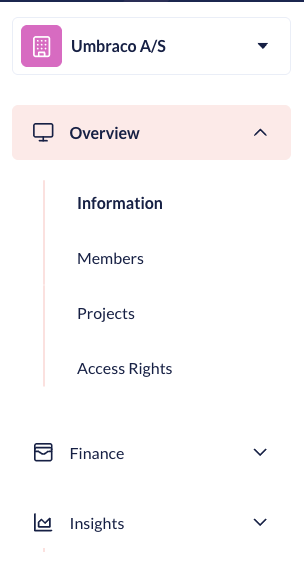
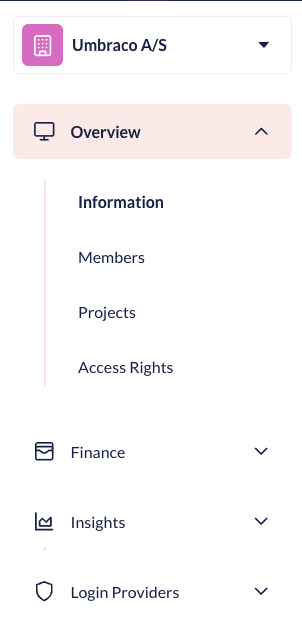
update images in Organization section

diff --git a/umbraco-cloud/begin-your-cloud-journey/the-cloud-portal/organizations.md b/umbraco-cloud/begin-your-cloud-journey/the-cloud-portal/organizations.md
@@ -121,12 +121,15 @@ This is a Beta feature and currently only open to a few early testers. If you wa
 The Sustainability Dashboard is designed to help users monitor and improve the environmental impact of their websites on Umbraco Cloud. For more information, see the [Sustainability Dashboard](../../optimize-and-maintain-your-site/monitor-and-troubleshoot/sustainability-dashboard.md) article.
 
 ## Login Providers
+<figure><img src="../../.gitbook/assets/org-menu-login-providers.png" alt="Login Providers section"><figcaption><p>Insights section</p></figcaption></figure>
 
 This section will allow you to configure access to the Umbraco Cloud Portal and Projects for your Organizations via the Login Provider(s) you use.
 
+To start setting up a Login Provider for your Organization, see the [Login Providers article](login-providers/README.md).
+
 ### External Login Providers
 
-This section will allow you to configure access to the Umbraco Cloud Portal for your Organizations via the Login Provider(s) you use.
+This section will allow you to configure access to the Umbraco Cloud Portal for your Organizations. 
 
 ### Project Configurations
 
